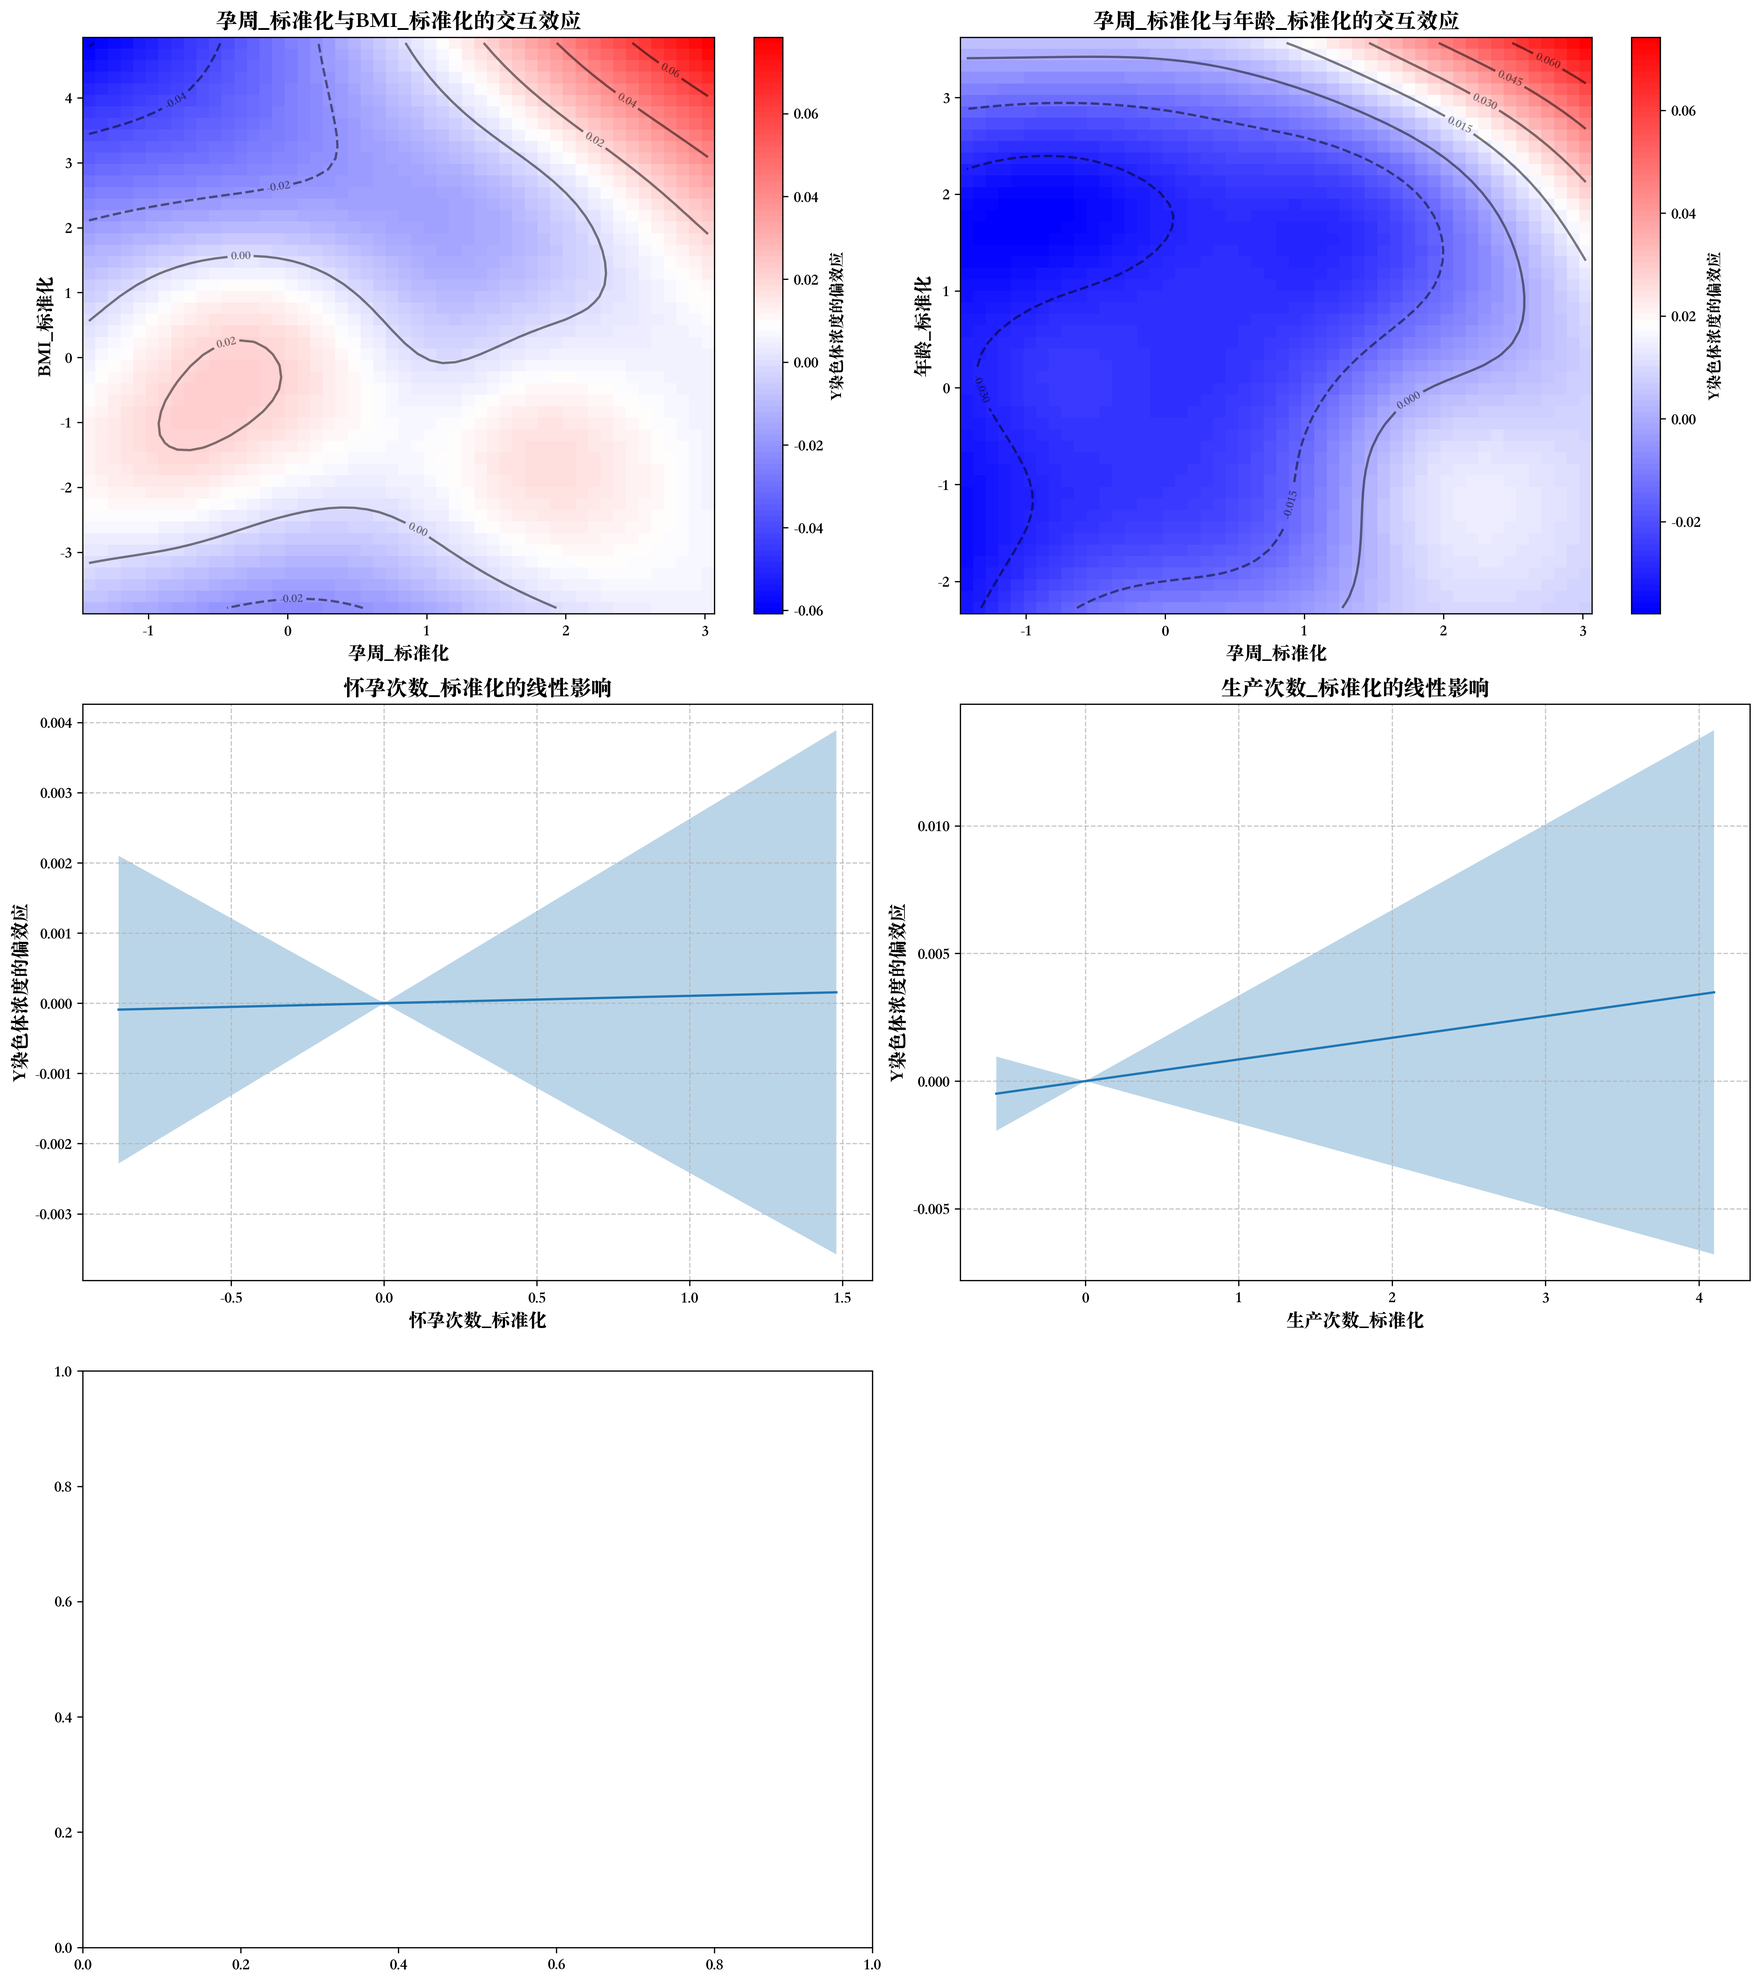
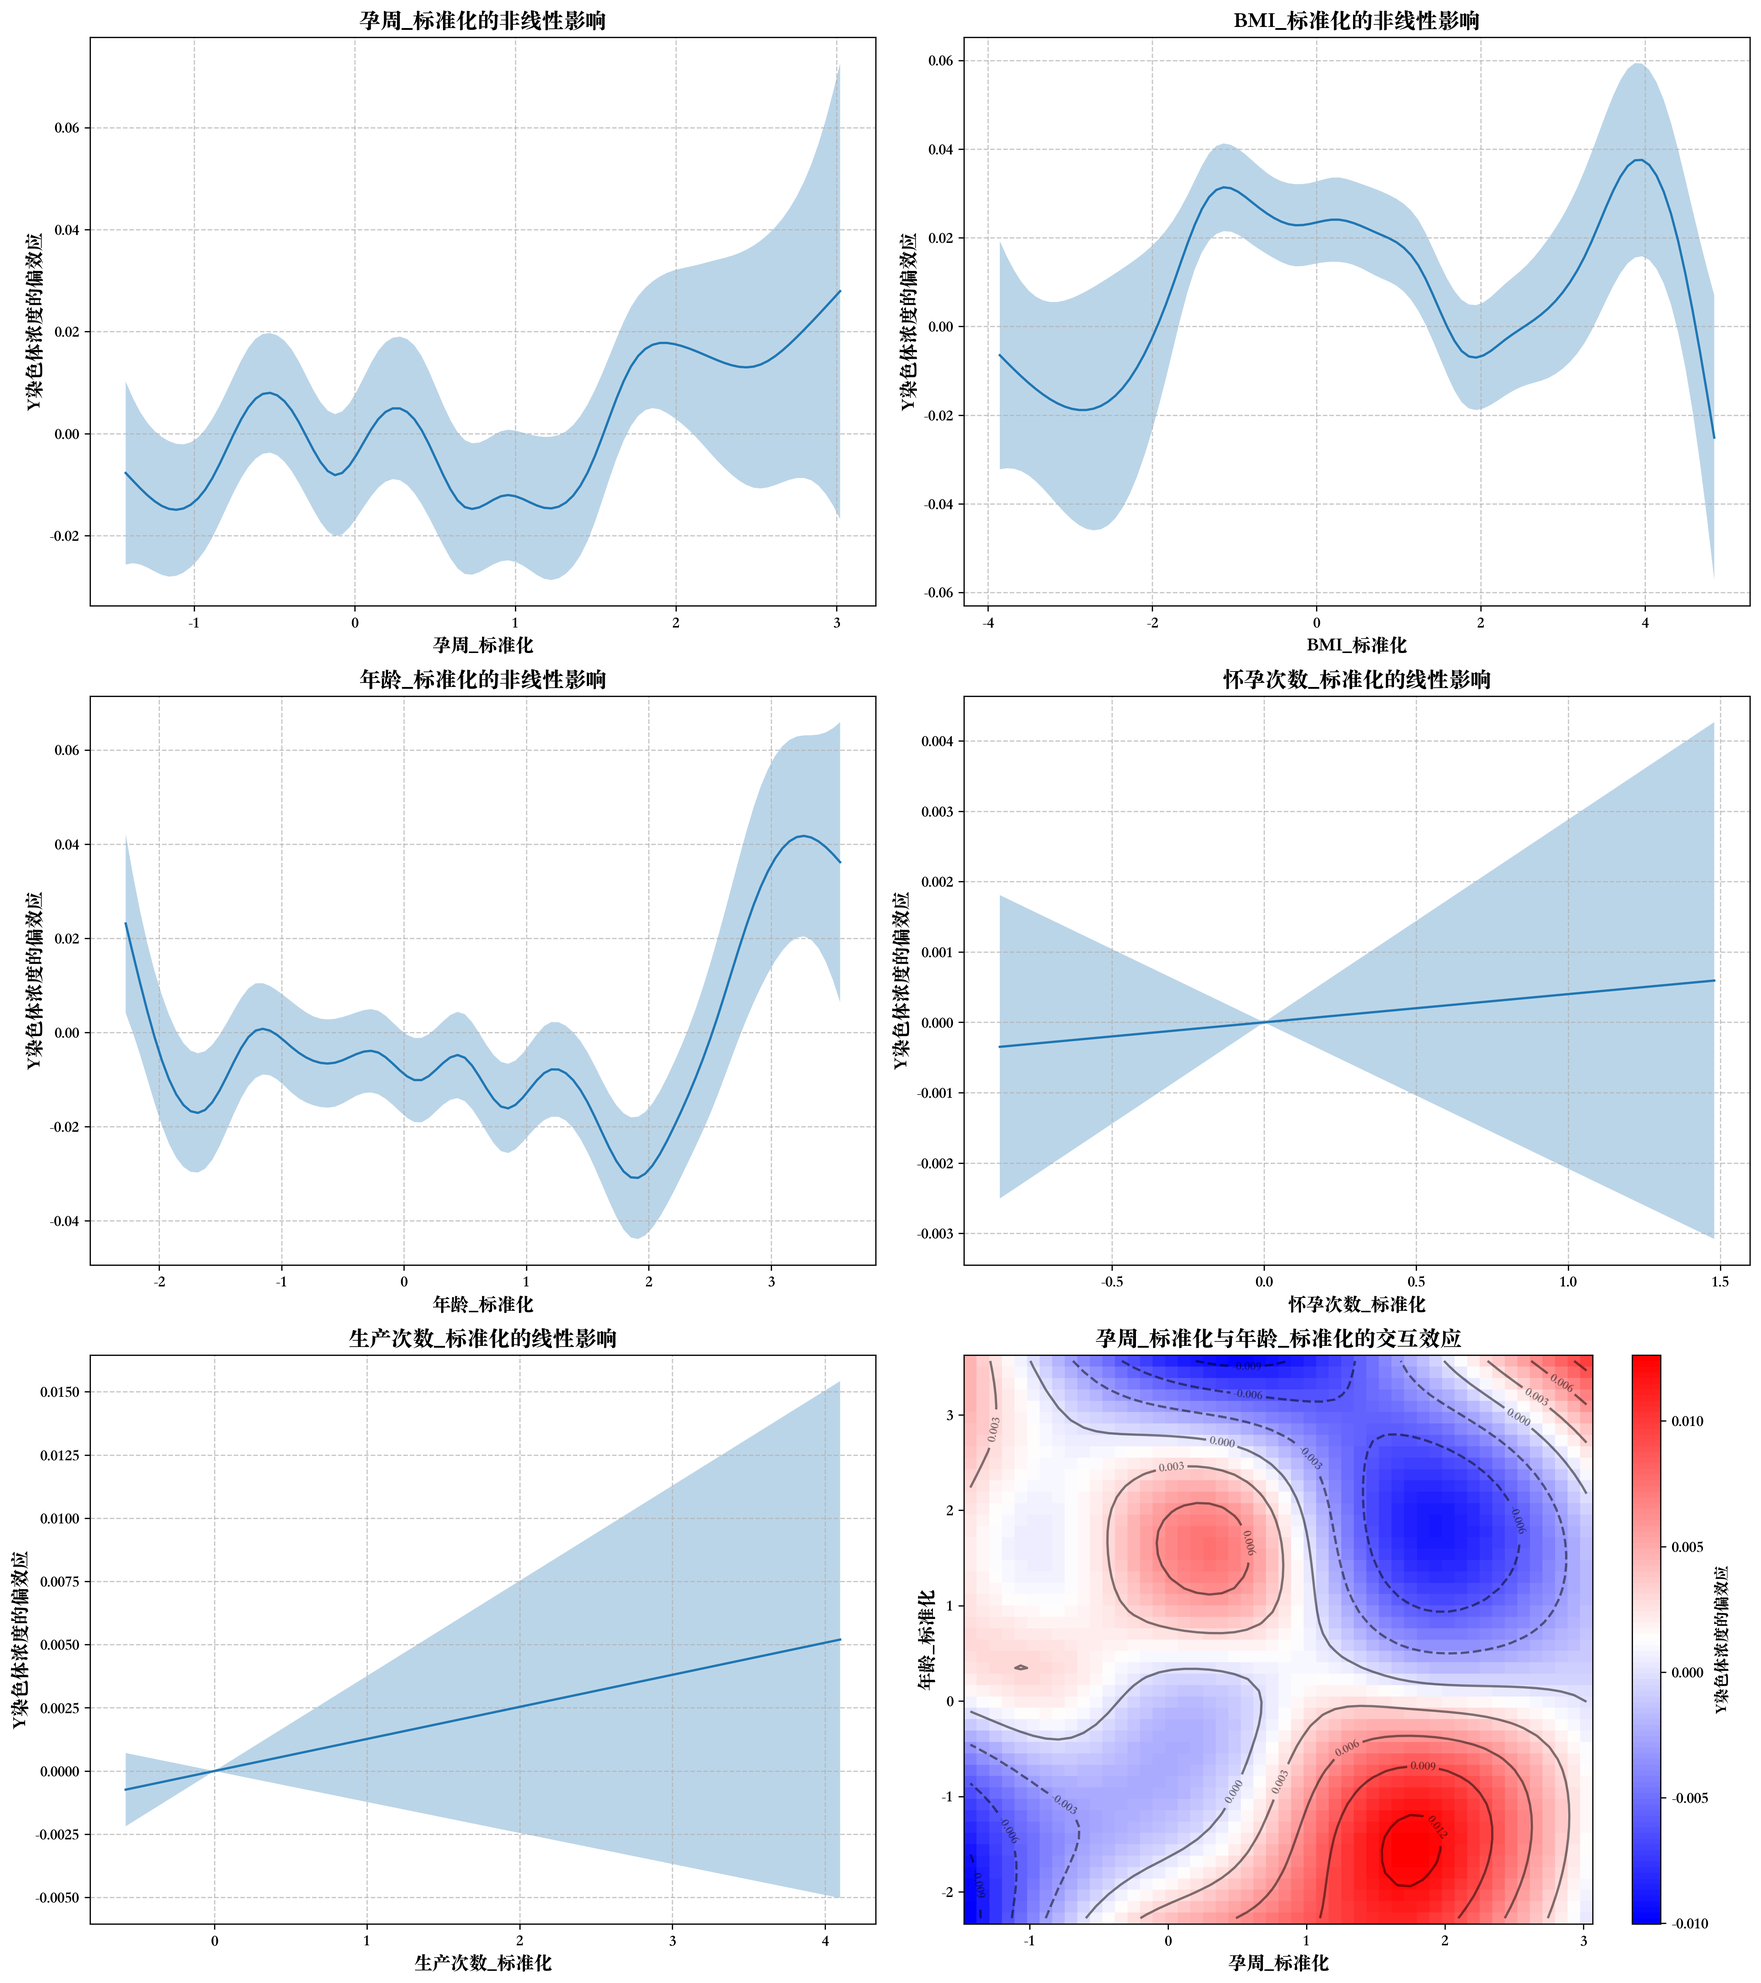
GAM修正

diff --git a/1/gam_enhanced_modeling.py b/1/gam_enhanced_modeling.py
@@ -15,6 +15,8 @@ import itertools
 from matplotlib.colors import LinearSegmentedColormap
 import statsmodels.api as sm
 from scipy import stats
+from io import StringIO
+import contextlib
 
 # 确保可以导入项目根目录的模块
 sys.path.append('/Users/Mac/Downloads/mm')
@@ -48,6 +50,11 @@ def gam_enhanced_modeling():
     y = data['Y染色体浓度'].copy()  # 目标变量
     X = data[['孕周_标准化', 'BMI_标准化', '年龄_标准化', '怀孕次数_标准化', '生产次数_标准化']].copy()
     
+    # 清理数据中的NaN和Inf值
+    mask = np.isfinite(y) & np.isfinite(X).all(axis=1)
+    y = y[mask]
+    X = X[mask]
+    
     # 保留原始列名，不再重命名为W, B, A等缩写
     feature_names = X.columns.tolist()
     
@@ -65,17 +72,17 @@ def gam_enhanced_modeling():
     print("  - 正在训练模型2 (加入怀孕次数和生产次数为线性项)...")
     models['M2_add_C_D'] = LinearGAM(s(0) + s(1) + s(2) + l(3) + l(4)).fit(X, y)
 
-    # 模型3: 孕周与BMI交互
-    print("  - 正在训练模型3 (孕周×BMI交互)...")
-    models['M3_interact_WB'] = LinearGAM(te(0, 1) + s(2)).fit(X[feature_names[:3]], y)
+    # 模型3: 孕周×BMI交互 (在M2基础上添加交互项)
+    print("  - 正在训练模型3 (M2 + 孕周×BMI交互)...")
+    models['M3_interact_WB'] = LinearGAM(s(0) + s(1) + s(2) + l(3) + l(4) + te(0, 1)).fit(X, y)
     
-    # 模型4: 孕周与年龄交互
-    print("  - 正在训练模型4 (孕周×年龄交互)...")
-    models['M4_interact_WA'] = LinearGAM(te(0, 2) + s(1)).fit(X[feature_names[:3]], y)
+    # 模型4: 孕周×年龄交互 (在M2基础上添加交互项)
+    print("  - 正在训练模型4 (M2 + 孕周×年龄交互)...")
+    models['M4_interact_WA'] = LinearGAM(s(0) + s(1) + s(2) + l(3) + l(4) + te(0, 2)).fit(X, y)
 
-    # 模型5: 全交互模型 (孕周×BMI, 孕周×年龄, 以及怀孕/生产次数作为线性项)
-    print("  - 正在训练模型5 (全交互模型)...")
-    models['M5_full_interact'] = LinearGAM(te(0, 1) + te(0, 2) + l(3) + l(4)).fit(X, y)
+    # 模型5: BMI×年龄交互 (在M2基础上添加交互项)
+    print("  - 正在训练模型5 (M2 + BMI×年龄交互)...")
+    models['M5_interact_BA'] = LinearGAM(s(0) + s(1) + s(2) + l(3) + l(4) + te(1, 2)).fit(X, y)
 
     # 4. 比较模型性能并选择最优模型
     print("\n模型性能比较:")
@@ -83,7 +90,9 @@ def gam_enhanced_modeling():
     for name, model in models.items():
         # 计算显著性检验
         p_values = model.statistics_['p_values']
-        significant_terms = sum(p < 0.05 for p in p_values)
+        # 排除截距项
+        pvals_non_intercept = [p for t, p in zip(model.terms, p_values) if not t.isintercept]
+        significant_terms = sum(p < 0.05 for p in pvals_non_intercept)
         
         results.append({
             '模型': name,
@@ -91,7 +100,7 @@ def gam_enhanced_modeling():
             'AICc': f"{model.statistics_['AICc']:.2f}",
             'GCV': f"{model.statistics_['GCV']:.4f}",
             'EDoF': f"{model.statistics_['edof']:.2f}",
-            '显著项数': f"{significant_terms}/{len(p_values)}"
+            '显著项数': f"{significant_terms}/{len(pvals_non_intercept)}"
         })
     
     results_df = pd.DataFrame(results)
@@ -104,12 +113,15 @@ def gam_enhanced_modeling():
 
     # 5. 分析并可视化最优模型
     print(f"\n最优模型 ({best_model_name}) 摘要:")
-    summary_str = best_model.summary()
+    # pygam.summary() 直接打印到标准输出，这里捕获文本
+    _buf = StringIO()
+    with contextlib.redirect_stdout(_buf):
+        best_model.summary()
+    summary_str = _buf.getvalue()
     print(summary_str)
     
-    # 确定最佳模型使用了哪些特征
-    # 这里需要根据模型名称动态判断
-    if best_model_name in ['M1_baseline', 'M3_interact_WB', 'M4_interact_WA']:
+    # 所有模型现在都使用全部特征（除了M1）
+    if best_model_name == 'M1_baseline':
         best_model_features = feature_names[:3]  # 只有前三个特征：孕周、BMI、年龄
     else:
         best_model_features = feature_names  # 全部五个特征
@@ -129,6 +141,23 @@ def gam_enhanced_modeling():
     # 7. 进行模型诊断
     print("\n进行模型诊断...")
     perform_model_diagnostics(best_model, X, y, best_model_features, output_dir)
+
+    # 8. 整体模型的近似 F 检验（基于EDoF 和 方差分解，供参考）
+    if len(best_model_features) != X.shape[1]:
+        _idx = [list(X.columns).index(feat) for feat in best_model_features]
+        X_used = X.iloc[:, _idx]
+    else:
+        X_used = X
+    y_pred_best = best_model.predict(X_used)
+    n = len(y)
+    SSE = float(np.sum((y - y_pred_best) ** 2))
+    SSR = float(np.sum((y_pred_best - y.mean()) ** 2))
+    edof = float(best_model.statistics_['edof'])
+    df1 = max(1, int(np.ceil(edof)))
+    df2 = max(1, int(n - df1))
+    F_stat = (SSR / df1) / (SSE / df2)
+    F_p_value = float(stats.f.sf(F_stat, df1, df2))
+    print(f"\n整体模型显著性近似F检验: F({df1}, {df2}) = {F_stat:.3f}, p = {F_p_value:.4g}")
     
     # 保存基本结果到文本文件
     with open(f'{output_dir}/best_model_summary.txt', 'w', encoding='utf-8') as f:
@@ -138,9 +167,20 @@ def gam_enhanced_modeling():
         f.write(results_df.to_string(index=False) + "\n\n")
         f.write("="*70 + "\n")
         f.write(f"最优模型 ({best_model_name}) 摘要:\n")
-        f.write(str(summary_str) + "\n\n")
+        f.write(summary_str + "\n")
+        f.write("整体模型显著性近似F检验:\n")
+        f.write(f"F({df1}, {df2}) = {F_stat:.3f}, p = {F_p_value:.4g}\n\n")
+        f.write("注: GAM 平滑项的 p 值与上述 F 检验均为近似量，且 pyGAM 在估计平滑参数时 p 值可能偏小，请谨慎解读。\n")
         
     print(f"\n分析完成。所有结果已保存至 '{output_dir}' 目录。")
+
+    # 9. K折交叉验证评估所有候选模型（MAE/RMSE/R²）
+    print("\n开始进行5折交叉验证评估所有候选模型 (MAE/RMSE/R²)...")
+    cv_df = cross_validate_all_models(X, y, feature_names, k=5, random_state=42)
+    print("\n交叉验证汇总结果:")
+    print(cv_df.to_string(index=False))
+    cv_df.to_csv(f'{output_dir}/cv_results.csv', index=False, encoding='utf-8-sig')
+    print(f"已保存交叉验证结果至 {output_dir}/cv_results.csv")
 
 def create_detailed_summary(model, feature_names):
     """创建详细的模型摘要表格"""
@@ -198,26 +238,26 @@ def create_detailed_summary(model, feature_names):
         # 获取EDoF (有效自由度) - 使用可用的统计信息
         edof = np.nan  # 暂时不提供单个项的EDoF
         
-        # 获取Lambda (平滑惩罚系数) - 使用新的方法
+        # 获取Lambda (平滑惩罚系数)：对数组保留完整显示
+        lam_display = ""
         try:
             if hasattr(model, 'lam') and i < len(model.lam):
                 lam_val = model.lam[i]
-                # 处理数组情况
                 if isinstance(lam_val, (list, tuple, np.ndarray)):
-                    lam = lam_val[0] if len(lam_val) > 0 else np.nan
+                    lam_display = np.array2string(np.array(lam_val), precision=1, separator=' ')
+                elif isinstance(lam_val, (int, float, np.floating)):
+                    lam_display = f"{lam_val:.6f}"
                 else:
-                    lam = lam_val
-            else:
-                lam = np.nan
-        except (IndexError, TypeError):
-            lam = np.nan
+                    lam_display = str(lam_val)
+        except Exception:
+            lam_display = ""
         
         # 添加行数据
         rows.append({
             'Term (模型项)': term_name,
             'Term_Type (项类型)': term_type_cn,
             'EDoF (有效自由度)': f"{edof:.3f}" if not np.isnan(edof) else "",
-            'Lambda (平滑惩罚系数)': f"{lam:.6f}" if isinstance(lam, (int, float)) and not np.isnan(lam) else str(lam),
+            'Lambda (平滑惩罚系数)': lam_display,
             'P-value (P值)': f"{p_value:.4f}" if not np.isnan(p_value) else "",
             'Significance (显著性水平)': significance,
             'Interpretation (业务解读)': "" # 留空，用于后续手动填写
@@ -229,27 +269,19 @@ def create_detailed_summary(model, feature_names):
 def create_partial_dependence_plots(model, feature_names, output_dir):
     """为模型中的每个项创建偏依赖图"""
     
-    # 图表整体设置
-    plt.figure(figsize=(18, 12))
-    
-    # 为每个模型项生成子图位置
-    num_plots = len(model.terms)
-    rows = max(1, (num_plots + 1) // 2)  # 向上取整
-    cols = min(2, num_plots)  # 最多2列
-    
-    # 创建一个统一的图表
+    # 收集需要绘制的项（排除截距），并计算网格
+    plot_indices = [i for i, t in enumerate(model.terms) if not getattr(t, 'isintercept', False)]
+    num_plots = len(plot_indices)
+    rows = int(np.ceil(num_plots / 2))
+    cols = 2 if num_plots > 1 else 1
     fig = plt.figure(figsize=(16, rows * 6))
-    
-    for i, term in enumerate(model.terms):
+
+    for plot_pos, i in enumerate(plot_indices, start=1):
+        term = model.terms[i]
         term_type = term.__class__.__name__
         
-        # 根据项的类型创建不同的可视化
-        if i == 0 and term_type == 'Intercept':
-            # 跳过截距项
-            continue
-        
-        # 创建子图
-        ax = fig.add_subplot(rows, cols, i + 1)
+        # 创建子图（位置由实际绘制的项数决定，避免空白子图）
+        ax = fig.add_subplot(rows, cols, plot_pos)
         
         if term_type == 'SplineTerm':
             # 为平滑项创建一维偏依赖图
@@ -411,6 +443,95 @@ def perform_model_diagnostics(model, X, y, feature_names, output_dir):
     
     diag_stats.to_csv(f'{output_dir}/diagnostic_statistics.csv', index=False, encoding='utf-8-sig')
     print(f"已保存诊断统计量到 {output_dir}/diagnostic_statistics.csv")
+
+def cross_validate_all_models(X, y, feature_names, k=5, random_state=42):
+    """对当前脚本中的6个候选模型进行K折交叉验证，返回每个模型的平均指标"""
+    # 定义模型规格（构建器 + 使用的特征列表）
+    specs = {
+        'M1_baseline': {
+            'builder': lambda: LinearGAM(s(0) + s(1) + s(2)),
+            'features': feature_names[:3]
+        },
+        'M2_add_C_D': {
+            'builder': lambda: LinearGAM(s(0) + s(1) + s(2) + l(3) + l(4)),
+            'features': feature_names
+        },
+        'M3_interact_WB': {
+            'builder': lambda: LinearGAM(s(0) + s(1) + s(2) + l(3) + l(4) + te(0, 1)),
+            'features': feature_names
+        },
+        'M4_interact_WA': {
+            'builder': lambda: LinearGAM(s(0) + s(1) + s(2) + l(3) + l(4) + te(0, 2)),
+            'features': feature_names
+        },
+        'M5_interact_BA': {
+            'builder': lambda: LinearGAM(s(0) + s(1) + s(2) + l(3) + l(4) + te(1, 2)),
+            'features': feature_names
+        }
+    }
+
+    n = len(y)
+    idx = np.arange(n)
+    rng = np.random.RandomState(random_state)
+    rng.shuffle(idx)
+
+    # 计算每折大小
+    fold_sizes = np.full(k, n // k, dtype=int)
+    fold_sizes[: n % k] += 1
+    current = 0
+
+    # 为每个模型准备容器
+    results = {name: {'MAE': [], 'RMSE': [], 'R2': []} for name in specs}
+
+    for fold in range(k):
+        start, stop = current, current + fold_sizes[fold]
+        test_idx = idx[start:stop]
+        train_idx = np.concatenate([idx[:start], idx[stop:]])
+        current = stop
+
+        y_train = y.iloc[train_idx]
+        y_test = y.iloc[test_idx]
+
+        for name, spec in specs.items():
+            feats = spec['features']
+            X_train = X[feats].iloc[train_idx]
+            X_test = X[feats].iloc[test_idx]
+            gam = spec['builder']()
+            try:
+                gam.fit(X_train, y_train)
+                preds = gam.predict(X_test)
+                mae = float(np.mean(np.abs(y_test - preds)))
+                rmse = float(np.sqrt(np.mean((y_test - preds) ** 2)))
+                # R² on test fold
+                ss_res = float(np.sum((y_test - preds) ** 2))
+                ss_tot = float(np.sum((y_test - y_test.mean()) ** 2))
+                r2 = float(1 - ss_res / ss_tot) if ss_tot > 0 else np.nan
+            except Exception as e:
+                mae, rmse, r2 = np.nan, np.nan, np.nan
+            results[name]['MAE'].append(mae)
+            results[name]['RMSE'].append(rmse)
+            results[name]['R2'].append(r2)
+
+    # 汇总
+    rows = []
+    for name, mets in results.items():
+        row = {
+            '模型': name,
+            'MAE_mean': np.nanmean(mets['MAE']),
+            'MAE_std': np.nanstd(mets['MAE']),
+            'RMSE_mean': np.nanmean(mets['RMSE']),
+            'RMSE_std': np.nanstd(mets['RMSE']),
+            'R2_mean': np.nanmean(mets['R2']),
+            'R2_std': np.nanstd(mets['R2'])
+        }
+        rows.append(row)
+    df = pd.DataFrame(rows)
+    # 排序：优先RMSE，其次MAE
+    df = df.sort_values(by=['RMSE_mean', 'MAE_mean', 'R2_mean'], ascending=[True, True, False])
+    # 保留小数
+    for col in ['MAE_mean', 'MAE_std', 'RMSE_mean', 'RMSE_std', 'R2_mean', 'R2_std']:
+        df[col] = df[col].map(lambda v: f"{v:.6f}" if pd.notnull(v) else "")
+    return df
 
 if __name__ == "__main__":
     gam_enhanced_modeling()
